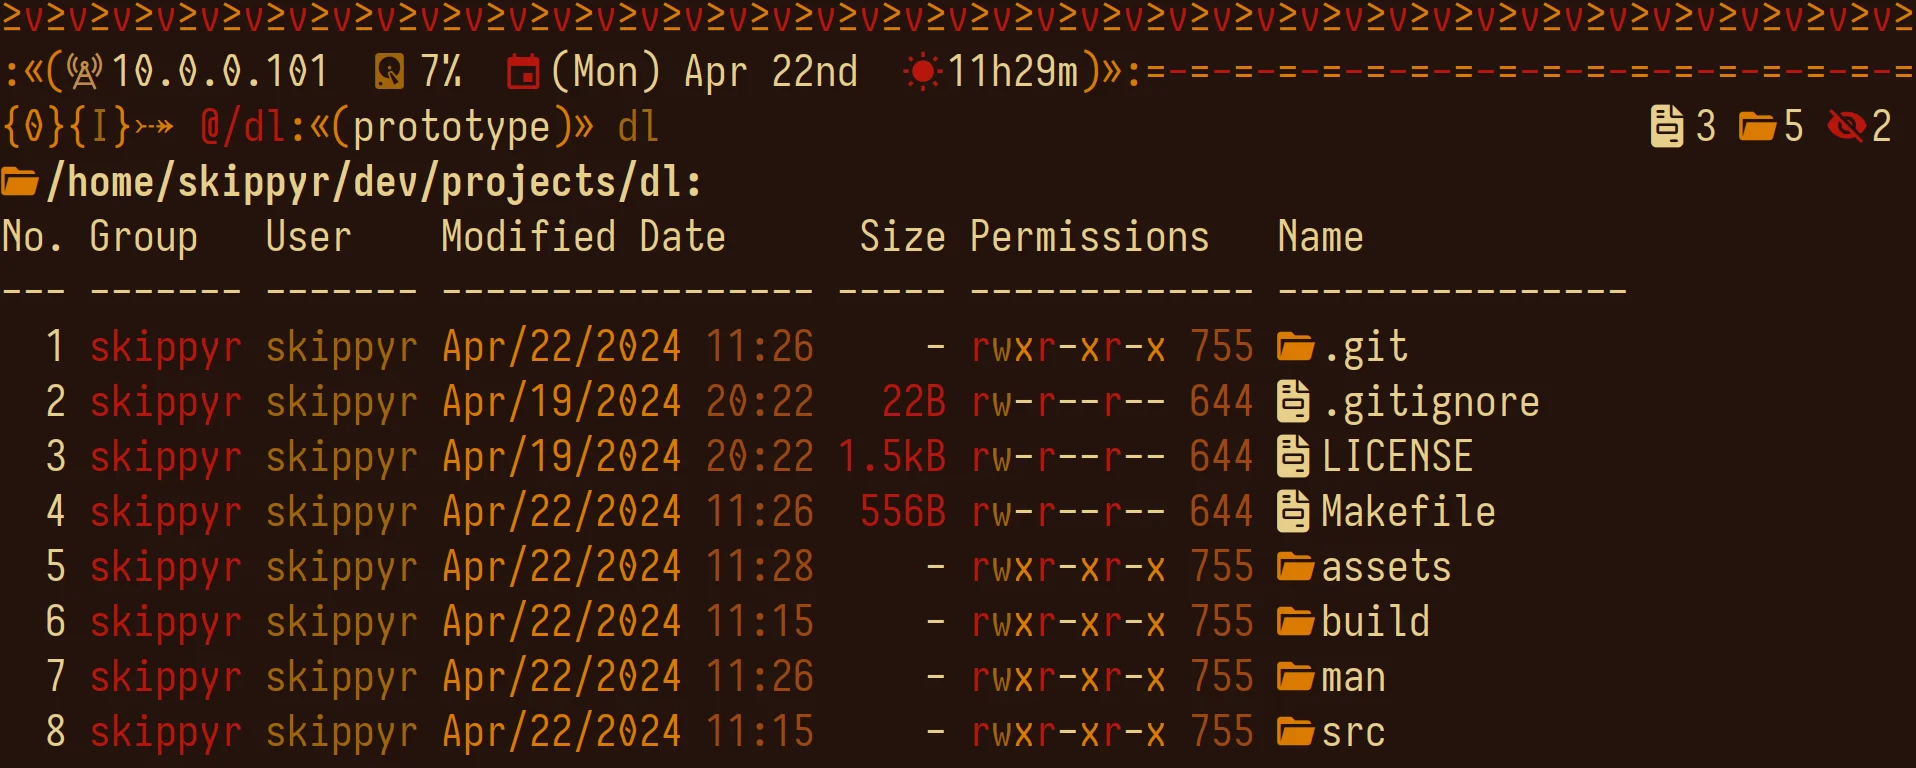
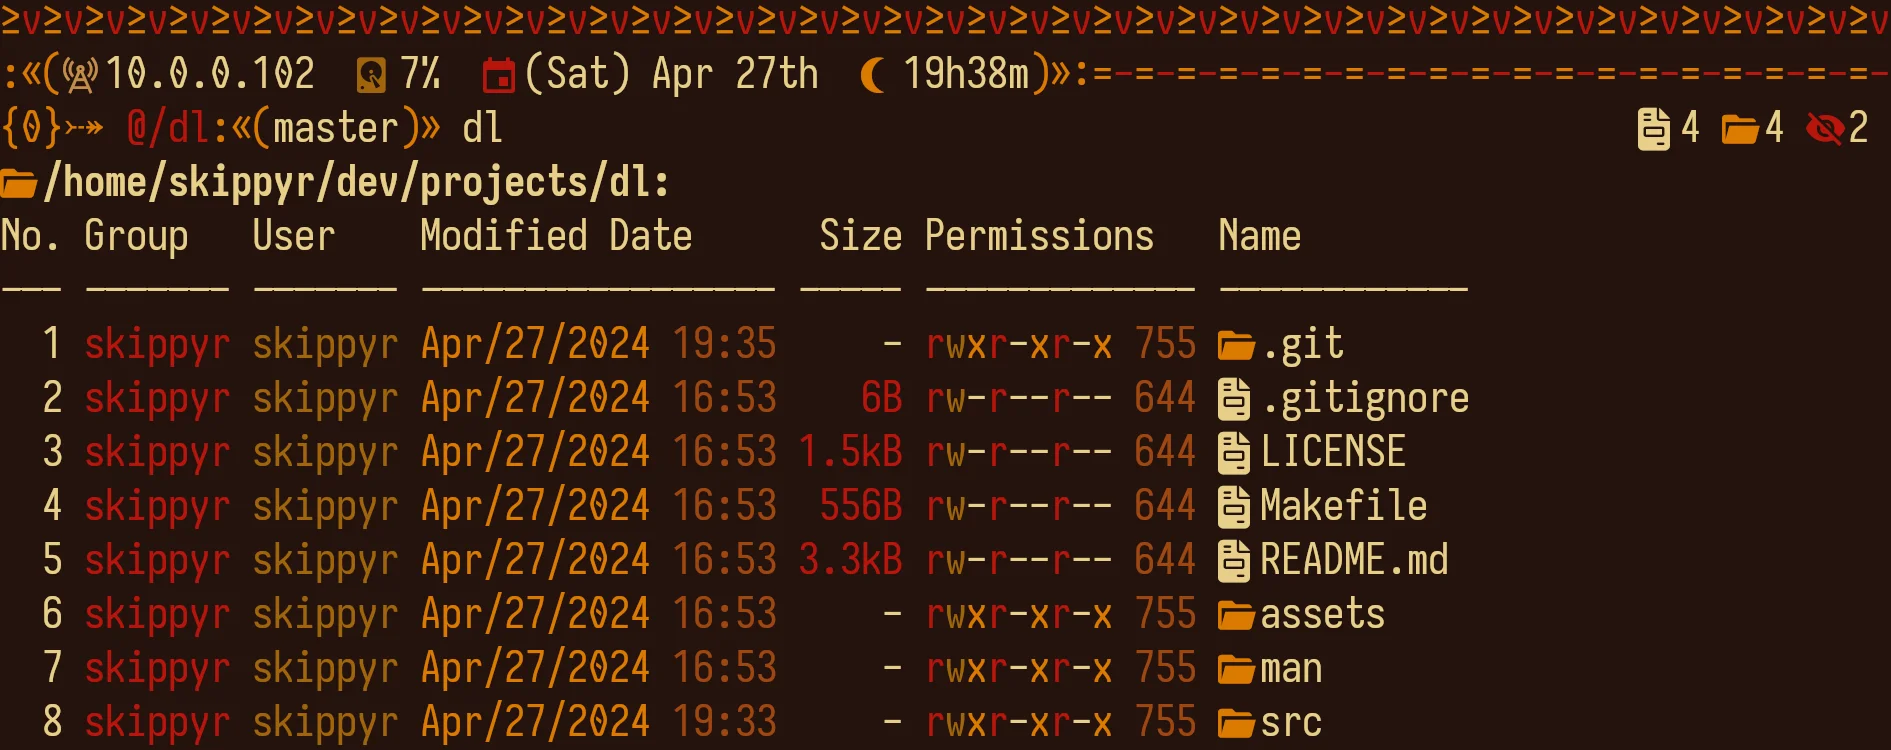
make name column variable length

diff --git a/src/dl.c b/src/dl.c
@@ -16,9 +16,9 @@
 #include <tdk.h>
 
 #ifdef __x86_64__
-#define ARCHITECTURE "x86_64"
+#define ARCH "x86_64"
 #else
-#define ARCHITECTURE "x86"
+#define ARCH "x86"
 #endif
 #define BUFSZ 1024
 #define PARSEPERM(perm_a, ch_r, clr_r) \
@@ -93,6 +93,7 @@ static struct arn *entarn_g = NULL;
 static struct arn *entdarn_g = NULL;
 static struct arn *tmparn_g = NULL;
 static char *buf_g = NULL;
+static unsigned short wincols_g;
 static int isouttty_g;
 static int exitcd_g = 0;
 
@@ -234,7 +235,6 @@ listdir(char *dirpath)
 	struct ent *e;
 	struct tm *t;
 	size_t dirpathlen;
-	size_t entnamesz;
 	size_t entpathsz;
 	size_t tmpsz;
 	char *entpath;
@@ -242,10 +242,12 @@ listdir(char *dirpath)
 	char moddate[12];
 	long i;
 	long readsz;
+	int tmpcollen;
 	int nocollen = 3;
 	int usrcollen = 4;
 	int grpcollen = 5;
 	int szcollen = 4;
+	int namecollen = 4;
 	if (stat(dirpath, &s)) {
 		writewarn("can not find the entry \"%s\".", dirpath);
 		return;
@@ -273,21 +275,21 @@ listdir(char *dirpath)
 				!d->d_name[2])))
 				continue;
 			e = allocarnmem(entarn_g, 1);
-			entnamesz = strlen(d->d_name) + 1;
-			entpathsz = dirpathlen + entnamesz + 1;
+			tmpcollen = strlen(d->d_name) + 2;
+			entpathsz = dirpathlen + tmpcollen + 2;
 			entpath = allocarnmem(tmparn_g, entpathsz);
 			memcpy(entpath, dirpath, dirpathlen);
 			entpath[dirpathlen] = '/';
-			memcpy(entpath + dirpathlen + 1, d->d_name, entnamesz);
+			memcpy(entpath + dirpathlen + 1, d->d_name, tmpcollen + 1);
 			lstat(entpath, &s);
-			e->name = allocarnmem(entdarn_g, entnamesz);
-			memcpy(e->name, d->d_name, entnamesz);
+			e->name = allocarnmem(entdarn_g, tmpcollen + 1);
+			memcpy(e->name, d->d_name, tmpcollen + 1);
 			if (d->d_type == DT_LNK) {
 				tmp = allocarnmem(tmparn_g, 300);
 				tmp[readlink(entpath, tmp, 300)] = 0;
-				tmpsz = strlen(tmp) + 1;
-				e->lnk = allocarnmem(entdarn_g, tmpsz);
-				memcpy(e->lnk, tmp, tmpsz);
+				tmpcollen += (tmpsz = strlen(tmp)) + 4;
+				e->lnk = allocarnmem(entdarn_g, tmpsz + 1);
+				memcpy(e->lnk, tmp, tmpsz + 1);
 			} else {
 				e->lnk = NULL;
 			}
@@ -303,10 +305,14 @@ listdir(char *dirpath)
 				SAVEGREATER(grpcollen, e->grp->namelen);
 			if (e->sz)
 				SAVEGREATER(szcollen, tmpsz);
+			SAVEGREATER(namecollen, tmpcollen);
 		}
 	close(fd);
 	i = countdigits(entarn_g->use) + (entarn_g->use > 1000);
 	SAVEGREATER(nocollen, i);
+	if ((tmpcollen = wincols_g - nocollen - grpcollen - usrcollen - szcollen -
+		 36) > 0 && namecollen > tmpcollen)
+		namecollen = tmpcollen;
 	tdk_set256clr(TDK_CLRYLW, TDK_LYRFG);
 	if (isouttty_g)
 		printf(" ");
@@ -319,11 +325,11 @@ listdir(char *dirpath)
 	printf("%*s %-*s %-*s %-*s %*s %-*s Name\n", nocollen, "No.", grpcollen,
 		   "Group", usrcollen, "User", 17, "Modified Date", szcollen, "Size",
 		   13, "Permissions");
-	writeln(7, nocollen, grpcollen, usrcollen, 17, szcollen, 13, 16);
+	writeln(7, nocollen, grpcollen, usrcollen, 17, szcollen, 13, namecollen);
 	if (!entarn_g->use) {
 		tdk_set256clr(TDK_CLRLBLK, TDK_LYRFG);
-		printf("%*s\n", 27 + nocollen + grpcollen + usrcollen + szcollen,
-			   "DIRECTORY IS EMPTY");
+		printf("%*s\n", 17 + nocollen + grpcollen + usrcollen + szcollen +
+			   namecollen, "DIRECTORY IS EMPTY");
 		tdk_set256clr(TDK_CLRDFT, TDK_LYRFG);
 	}
 	qsort(entarn_g->buf, entarn_g->use, sizeof(struct ent), sortents);
@@ -520,13 +526,14 @@ main(int argc, char **argv)
 {
 	int i;
 	isouttty_g = isatty(1);
+	tdk_getwindim(&wincols_g, NULL);
 	if (argc == 1) {
 		listdir(".");
 		goto end_l;
 	}
 	for (i = 1; i < argc; ++i) {
 		PARSEOPT("version", printf("dl %s (compiled for Linux %s)\n", VERSION,
-								   ARCHITECTURE));
+								   ARCH));
 		PARSEOPT("help", writehelp());
 		if (*argv[i] == '-' && (argv[i][1] == '-' || !argv[i][2]))
 			threrr("the option \"%s\" is unrecognized.", argv[i]);
